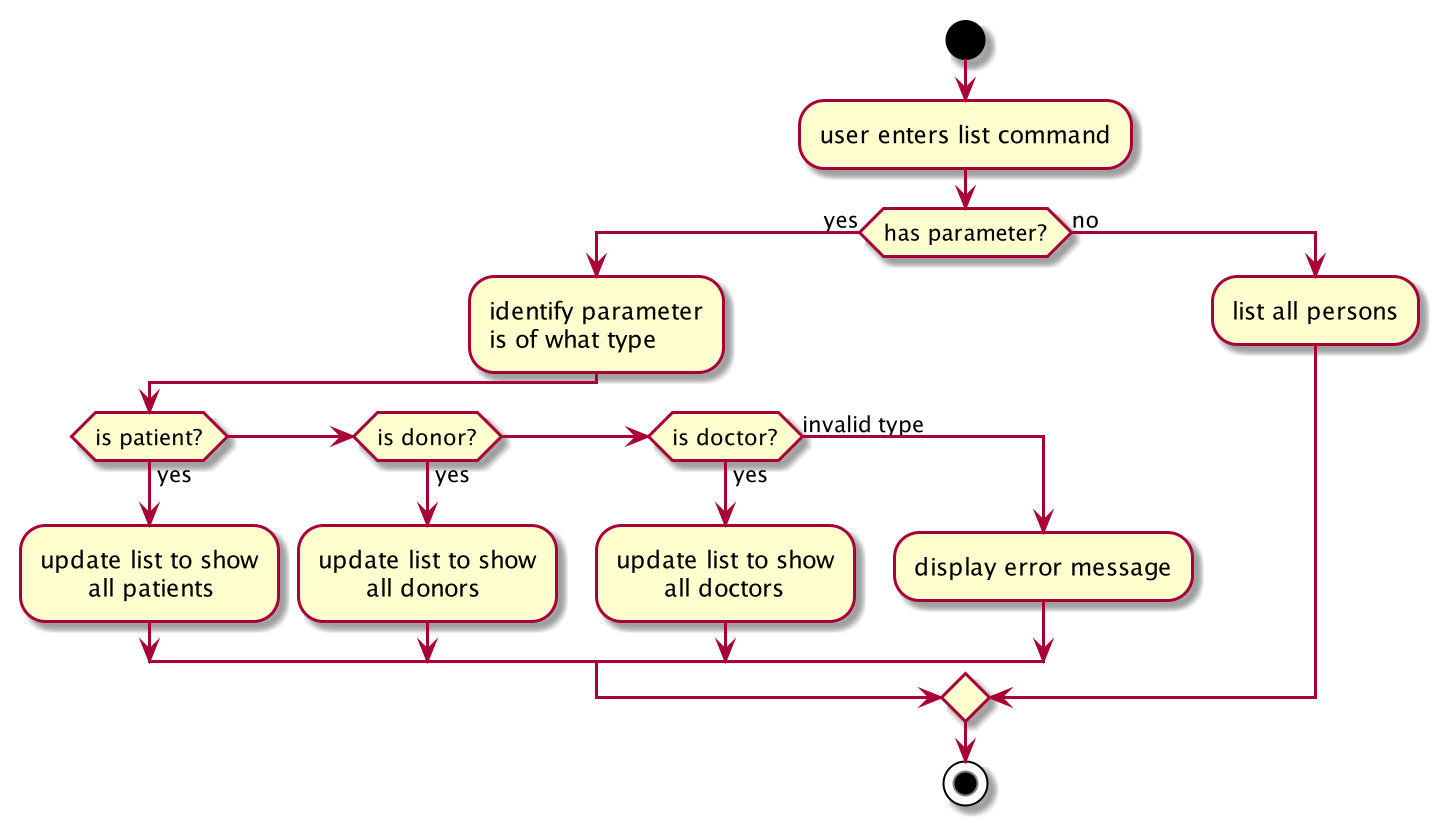
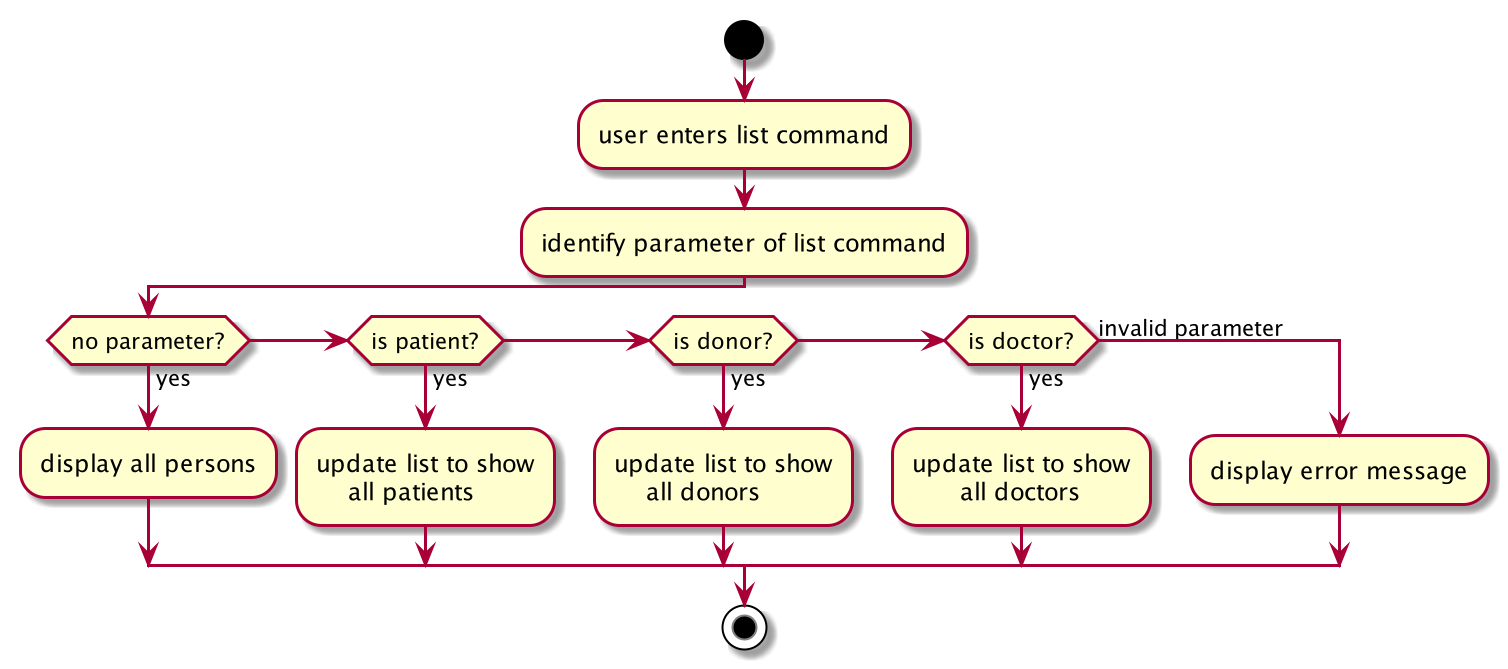
Rebuild pages at f5f963f75f8ef12c085efeb2031c96c8c64d8420

Changed region(s): [[0.0, 0.0299, 1.0, 0.9865]]

diff --git a/UserGuide.html b/UserGuide.html
@@ -18,7 +18,7 @@
 <li><a href="#viewing-help-code-help-code">5.1. Viewing help : <code>help</code></a></li>
 <li><a href="#adding-a-person-code-add-code">5.2. Adding a person: <code>add</code></a></li>
 <li><a href="#listing-persons-code-list-code">5.3. Listing persons : <code>list</code></a></li>
-<li><a href="#editing-a-person-code-edit-code">5.4. Editing a person : <code>edit</code></a></li>
+<li><a href="#editing-a-person-s-attribute-code-edit-code">5.4. Editing a person&#8217;s attribute : <code>edit</code></a></li>
 <li><a href="#finding-persons-by-attributes-code-find-code">5.5. Finding persons by attributes: <code>find</code></a></li>
 <li><a href="#detecting-matches-code-match-code">5.6. Detecting matches: <code>match</code></a></li>
 <li><a href="#sorting-matches-code-sort-code">5.7. Sorting matches: <code>sort</code></a></li>
@@ -641,54 +641,69 @@ For example, if you enter the wrong name and want to undo the action, type <code
 <div class="sect2">
 <h3 id="listing-persons-code-list-code"><a class="link" href="#listing-persons-code-list-code">5.3. Listing persons : <code>list</code></a></h3>
 <div class="paragraph">
-<p>Shows a list of all doctors, donors, or patients in ORGANice, depending on the type of person specified. Shows all
-persons in ORGANice if no type is specified.</p>
+<p>This list command can show you the list of persons in ORGANice.</p>
+</div>
+<div class="sect3">
+<h4 id="listing-all-persons"><a class="link" href="#listing-all-persons">5.3.1. Listing all persons</a></h4>
+<div class="paragraph">
+<p>Simply type <code>list</code> in the Command Box and ORGANice will show you all patients, doctors and donors present in the system.</p>
 </div>
 <div class="paragraph">
 <p>Format: <code>list</code></p>
 </div>
+</div>
+<div class="sect3">
+<h4 id="listing-persons-of-a-specified-type"><a class="link" href="#listing-persons-of-a-specified-type">5.3.2. Listing persons of a specified type</a></h4>
 <div class="paragraph">
-<p>Optional parameters: Type parameter - <code>t/TYPE</code></p>
+<p>If you wish to see a certain type of person only, you can provide the type parameter in the list command.</p>
 </div>
 <div class="paragraph">
-<p>Examples:</p>
+<p>Optional parameter: Type - <code>t/TYPE</code></p>
 </div>
-<div class="ulist">
-<ul>
-<li>
-<p><code>list</code><br>
-Lists all patients, doctors and donors in the records.</p>
-</li>
-<li>
-<p><code>list t/patient</code><br>
-Lists all patients only.</p>
-</li>
-</ul>
+<div class="paragraph">
+<p>For instance, if you only want to see all doctors, you can enter the following:
+<code>list t/doctor</code>. Likewise, you can change the type parameter in the same manner to see only patients or donors.</p>
+</div>
 </div>
 </div>
 <div class="sect2">
-<h3 id="editing-a-person-code-edit-code"><a class="link" href="#editing-a-person-code-edit-code">5.4. Editing a person : <code>edit</code></a></h3>
+<h3 id="editing-a-person-s-attribute-code-edit-code"><a class="link" href="#editing-a-person-s-attribute-code-edit-code">5.4. Editing a person&#8217;s attribute : <code>edit</code></a></h3>
 <div class="paragraph">
-<p>Edits the information of the person with the specified NRIC to the attributes specified.
-It is up to the user to specify which attributes should be updated.<br></p>
+<p>If you want to make any changes to a person&#8217;s attribute, you can edit the information using an edit command.
+If there are multiple attributes to change, you can do so in the same edit command.</p>
 </div>
 <div class="paragraph">
-<p>Format: <code>edit <strong>NRIC</strong></code></p>
+<p>The format is such that after the <code>edit</code> keyword, provide the person&#8217;s NRIC, followed by the attribute(s) that you want to change in the edit command.</p>
 </div>
 <div class="paragraph">
-<p>Examples:</p>
+<p>Format: <code>edit <strong>NRIC</strong></code> followed by attributes to update</p>
+</div>
+<div class="paragraph">
+<p>For instance, if you want to change a patient&#8217;s phone number to 91234567, you can provide his or her NRIC followed by the new phone number
+as follows: <code>edit S8732457G p/91234567</code>.</p>
+</div>
+<div class="paragraph">
+<p><strong>You can only make changes to attributes that the person has.</strong>
+For example, you cannot change a doctor&#8217;s age because a doctor does not have that attribute in ORGANice.</p>
+</div>
+<div class="paragraph">
+<p><strong>In addition, there are some attributes that cannot be edited.</strong> These include:</p>
 </div>
 <div class="ulist">
 <ul>
 <li>
-<p><code>edit S8732457G p/91234567</code><br>
-Edits the phone number of the specified patient to be <code>91234567</code>.</p>
+<p>NRIC</p>
 </li>
 <li>
-<p><code>edit S8732457G n/Betsy Crower p/91234567</code><br>
-Edits the name and phone number of the specified donor to be <code>Betsy Crower</code> and <code>91234567</code> respectively.</p>
+<p>Type</p>
+</li>
+<li>
+<p>Organ expiry date</p>
 </li>
 </ul>
+</div>
+<div class="paragraph">
+<p>You might want to refer to <a href="#list-of-attributes">Section 4, &#8220;List of Attributes&#8221;</a> to see what attributes are applicable to each type of person in ORGANice.</p>
 </div>
 </div>
 <div class="sect2">
@@ -856,7 +871,7 @@ how to sort matches.</p>
 </div>
 <div class="paragraph">
 <p><strong>The sort command can only be used after a match command</strong> to sort the resulting list of patient-donor pairs generated.
-There are three categories by which you can sort the matches, namely:</p>
+There are three criteria in which you can sort the matches, namely:</p>
 </div>
 <div class="ulist">
 <ul>
@@ -872,69 +887,55 @@ There are three categories by which you can sort the matches, namely:</p>
 </ul>
 </div>
 <div class="paragraph">
-<p>These categories are further elaborated below. Note that <strong>only one category can be used in one sort command</strong>.</p>
+<p>These criteria will be further explained below.</p>
+</div>
+<div class="paragraph">
+<p>Note that <strong>only one criteria can be used in one sort command</strong>.</p>
 </div>
 <div class="sect3">
 <h4 id="sorting-based-on-donor-s-organ-expiry-date"><a class="link" href="#sorting-based-on-donor-s-organ-expiry-date">5.7.1. Sorting based on donor&#8217;s organ expiry date</a></h4>
 <div class="paragraph">
-<p>This category sorts a list of matched donors belonging to a particular patient based on the donated organ&#8217;s expiry date (from the earliest to the latest expiry date).</p>
-</div>
-<div class="paragraph">
-<p>This allows you to determine which organs are expiring soon so that you can prioritize them for organ transplant.</p>
+<p>To find out which organs are expiring soon, you can sort the list of matched donors based on the donor&#8217;s organ expiry date (from the earliest to the latest expiry date).</p>
 </div>
 <div class="paragraph">
 <p>Format: <code>sort expiry</code></p>
 </div>
 <div class="paragraph">
-<p>Example:<br>
-After running a match command on a specific patient with <code>match ic/<strong>NRIC</strong></code>, you will get the list of donors that are compatible with said patient.
-You can then run <code>sort expiry</code> to obtain the list of donors with the earliest organ expiration date at the top of the list.</p>
+<p>For example, after running a match command on a specific patient with <code>match ic/<strong>NRIC</strong></code>, you will get the list of donors that are compatible with said patient.
+You can then run <code>sort expiry</code> to obtain the list of donors with earlier organ expiry dates near the top of the list.</p>
 </div>
 </div>
 <div class="sect3">
 <h4 id="sorting-based-on-priority"><a class="link" href="#sorting-based-on-priority">5.7.2. Sorting based on priority</a></h4>
 <div class="paragraph">
-<p>This category sorts a list of matched patients based on their priority (from highest to lowest). You may refer to <a href="#glossary">Section 9, &#8220;Glossary&#8221;</a> for more information on priority.</p>
-</div>
-<div class="paragraph">
-<p>This allows you to determine which patient to prioritize for organ transplant.</p>
+<p>To determine which patient to prioritize for organ transplant, you can sort the list of matched patients based on their priority (from highest to lowest).
+You may refer to <a href="#glossary">Section 9, &#8220;Glossary&#8221;</a> to understand what priority means.</p>
 </div>
 <div class="paragraph">
 <p>Format: <code>sort priority</code></p>
 </div>
 <div class="paragraph">
-<p>Example:<br>
-After running <code>match ic/all</code>, you will obtain a list of patients.
-You can then run <code>sort priority</code> to obtain a list with high priority patients at the top of the list.</p>
+<p>For example, after running <code>match ic/all</code>, you will obtain a list of patients.
+You can then run <code>sort priority</code> to obtain the list with higher priority patients near the top of the list.</p>
 </div>
 <div class="paragraph">
-<p>Note:</p>
-</div>
-<div class="ulist">
-<ul>
-<li>
-<p>In cases where patients have the <strong>same priority</strong>, those with more matched donors will be displayed first.
+<p>Note that in the case where patients have the <strong>same priority</strong>, those with more matched donors will be displayed first.
 If these two factors are the same for a group of patients, they will be displayed according to their names in alphabetical order.</p>
-</li>
-</ul>
 </div>
 </div>
 <div class="sect3">
 <h4 id="sorting-based-on-success-rate-of-match"><a class="link" href="#sorting-based-on-success-rate-of-match">5.7.3. Sorting based on success rate of match</a></h4>
 <div class="paragraph">
-<p>This category sorts the list of matched donors belonging to a particular patient based on the success rate of the match (from highest to lowest).
-(Refer to <a href="#glossary">Section 9, &#8220;Glossary&#8221;</a> for more information on success rate.)</p>
-</div>
-<div class="paragraph">
-<p>This allows you to determine which patient-donor pair has the highest compatibility and are safe to proceed for organ transplant.</p>
+<p>To determine which patient-donor pair is the most compatible, you can
+sort the list of compatible donors of that patient based on the success rate of the match (from highest to lowest).
+You can refer to <a href="#glossary">Section 9, &#8220;Glossary&#8221;</a> for more information on success rate.</p>
 </div>
 <div class="paragraph">
 <p>Format: <code>sort rate</code></p>
 </div>
 <div class="paragraph">
-<p>Example:<br>
-After running a match command on a specific patient with <code>match ic/<strong>NRIC</strong></code>, you will get the list of donors that are compatible with said patient.
-You can then run <code>sort rate</code> to obtain the list of donors with the highest success rate at the top of the list. <br></p>
+<p>Take for instance, after running a match command on a specific patient with <code>match ic/<strong>NRIC</strong></code>, you will get a list of donors that are compatible with said patient.
+You can then run <code>sort rate</code> to obtain the list of donors with higher success rates near the top of the list.</p>
 </div>
 </div>
 </div>
@@ -1306,4 +1307,4 @@ This percentage is calculated from the number of tissue matches between the pati
 </ul>
 </div>
 </div>
-</div></div><div id="footer"><div class="container"><div id="footer-text">Last updated 2019-11-08 16:25:42 UTC</div></div></div></body></html>
+</div></div><div id="footer"><div class="container"><div id="footer-text">Last updated 2019-11-08 17:29:00 UTC</div></div></div></body></html>

diff --git a/DeveloperGuide.html b/DeveloperGuide.html
@@ -390,7 +390,7 @@ The code snippet below shows what these predicates are:</p>
 </div>
 <div class="listingblock">
 <div class="content">
-<pre class="CodeRay highlight"><code>/** {@code Predicate} that always evaluate to true */
+<pre class="CodeRay highlight"><code>    /** {@code Predicate} that always evaluate to true */
     Predicate&lt;Person&gt; PREDICATE_SHOW_ALL_PERSONS = unused -&gt; true;
 
     /** {@code Predicate} that always evaluate to true if person is a doctor */
@@ -1590,4 +1590,4 @@ Expected: Similar to previous.</p>
 </div>
 </div>
 </div>
-</div></div><div id="footer"><div class="container"><div id="footer-text">Last updated 2019-11-08 16:25:42 UTC</div></div></div></body></html>
+</div></div><div id="footer"><div class="container"><div id="footer-text">Last updated 2019-11-08 17:29:00 UTC</div></div></div></body></html>

diff --git a/tutorials/RemovingFields.html b/tutorials/RemovingFields.html
@@ -175,4 +175,4 @@ While keeping the <code>address</code> field in the json files does not cause th
 <p>You can go through each individual <code>json</code> file and manually remove the <code>address</code> field.</p>
 </div>
 </div>
-</div></div><div id="footer"><div class="container"><div id="footer-text">Last updated 2019-11-08 16:25:43 UTC</div></div></div></body></html>
+</div></div><div id="footer"><div class="container"><div id="footer-text">Last updated 2019-11-08 17:29:00 UTC</div></div></div></body></html>

diff --git a/tutorials/AddRemark.html b/tutorials/AddRemark.html
@@ -616,4 +616,4 @@ In this case, <code>CommandTestUtil#assertCommandSuccess</code> is the best fit 
 <p>This concludes the tutorial for adding a new <code>Command</code> to AddressBook.</p>
 </div>
 </div>
-</div></div><div id="footer"><div class="container"><div id="footer-text">Last updated 2019-11-08 16:25:43 UTC</div></div></div></body></html>
+</div></div><div id="footer"><div class="container"><div id="footer-text">Last updated 2019-11-08 17:29:00 UTC</div></div></div></body></html>

diff --git a/Testing.html b/Testing.html
@@ -90,4 +90,4 @@ e.g. <code>organice.logic.LogicManagerTest</code></p>
 <div class="title">Figure 1. <code>Accessibility</code> permission is granted to <code>IntelliJ IDEA</code></div>
 </div>
 </div>
-</div></div><div id="footer"><div class="container"><div id="footer-text">Last updated 2019-11-08 16:25:42 UTC</div></div></div></body></html>
+</div></div><div id="footer"><div class="container"><div id="footer-text">Last updated 2019-11-08 17:29:00 UTC</div></div></div></body></html>

diff --git a/team/johndoe.html b/team/johndoe.html
@@ -479,4 +479,4 @@ this section will gloss over higher-level details and instead zoom-in to the beh
 <p><em>{Optionally, you may include other projects in your portfolio.}</em></p>
 </div>
 </div>
-</div></div><div id="footer"><div class="container"><div id="footer-text">Last updated 2019-11-08 16:25:43 UTC</div></div></div></body></html>
+</div></div><div id="footer"><div class="container"><div id="footer-text">Last updated 2019-11-08 17:29:00 UTC</div></div></div></body></html>

diff --git a/ContactUs.html b/ContactUs.html
@@ -12,4 +12,4 @@
 <p><strong>Email us</strong> : You can also reach us at <code>iskandar [at] u.nus.edu.sg</code></p>
 </li>
 </ul>
-</div></div><div id="footer"><div class="container"><div id="footer-text">Last updated 2019-11-08 16:25:42 UTC</div></div></div></body></html>
+</div></div><div id="footer"><div class="container"><div id="footer-text">Last updated 2019-11-08 17:29:00 UTC</div></div></div></body></html>

diff --git a/LearningOutcomes.html b/LearningOutcomes.html
@@ -474,4 +474,4 @@ of storages, but different number of storages (e.g. save to both a text file and
 </div>
 </div>
 </div>
-</div></div><div id="footer"><div class="container"><div id="footer-text">Last updated 2019-11-08 16:25:42 UTC</div></div></div></body></html>
+</div></div><div id="footer"><div class="container"><div id="footer-text">Last updated 2019-11-08 17:29:00 UTC</div></div></div></body></html>

diff --git a/SettingUp.html b/SettingUp.html
@@ -180,4 +180,4 @@ Having both Travis and AppVeyor ensures your App works on both Unix-based platfo
 </div>
 </div>
 </div>
-</div></div><div id="footer"><div class="container"><div id="footer-text">Last updated 2019-11-08 16:25:42 UTC</div></div></div></body></html>
+</div></div><div id="footer"><div class="container"><div id="footer-text">Last updated 2019-11-08 17:29:00 UTC</div></div></div></body></html>

diff --git a/UsingCoveralls.html b/UsingCoveralls.html
@@ -111,4 +111,4 @@ If you have not set up Travis CI, see <a href="UsingTravis.html">UsingTravis.ado
 </ol>
 </div>
 </div>
-</div></div><div id="footer"><div class="container"><div id="footer-text">Last updated 2019-11-08 16:25:42 UTC</div></div></div></body></html>
+</div></div><div id="footer"><div class="container"><div id="footer-text">Last updated 2019-11-08 17:29:00 UTC</div></div></div></body></html>

diff --git a/UsingGradle.html b/UsingGradle.html
@@ -228,4 +228,4 @@ See <code>build.gradle</code> &#8594; <code>allprojects</code> &#8594; <code>dep
 </ul>
 </div>
 </div>
-</div></div><div id="footer"><div class="container"><div id="footer-text">Last updated 2019-11-08 16:25:42 UTC</div></div></div></body></html>
+</div></div><div id="footer"><div class="container"><div id="footer-text">Last updated 2019-11-08 17:29:00 UTC</div></div></div></body></html>

diff --git a/UsingNetlify.html b/UsingNetlify.html
@@ -138,4 +138,4 @@ The publish directory is the directory in which the built HTML documentation res
 </ol>
 </div>
 </div>
-</div></div><div id="footer"><div class="container"><div id="footer-text">Last updated 2019-11-08 16:25:42 UTC</div></div></div></body></html>
+</div></div><div id="footer"><div class="container"><div id="footer-text">Last updated 2019-11-08 17:29:00 UTC</div></div></div></body></html>
